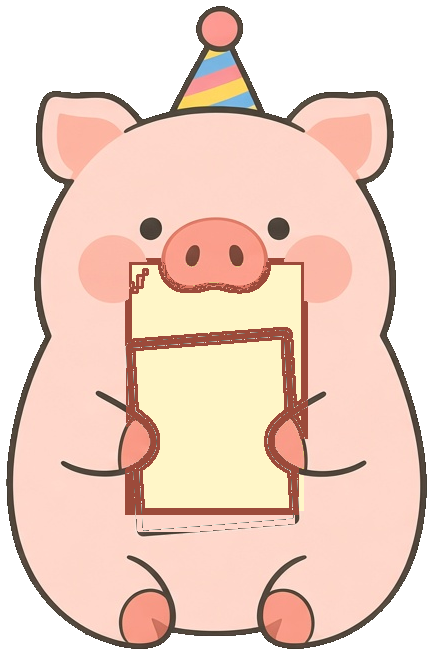
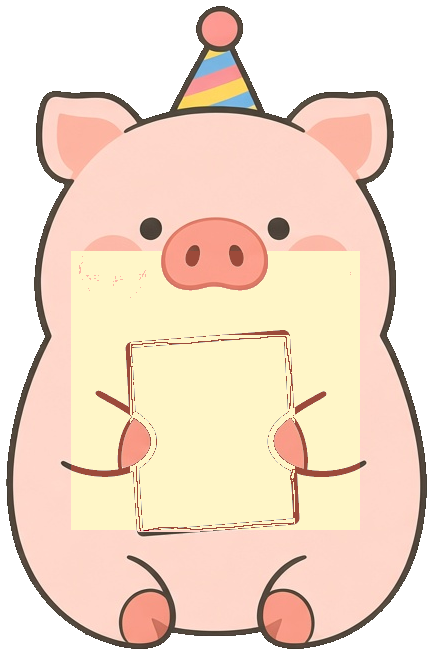
feat: lock user-provided LuLu fullbody; pale yellow card + red-brown border

Changed region(s): [[0.1501, 0.3664, 0.8406, 0.8244]]

diff --git a/index.html b/index.html
@@ -8,12 +8,12 @@
   <link rel="preconnect" href="https://fonts.googleapis.com" />
   <link rel="preconnect" href="https://fonts.gstatic.com" crossorigin />
   <link href="https://fonts.googleapis.com/css2?family=Noto+Sans+TC:wght@400;600;700;800&family=Nunito:wght@600;700;800&display=swap" rel="stylesheet" />
-  <link rel="stylesheet" href="css/styles.css?v=cardcolor1" />
+  <link rel="stylesheet" href="css/styles.css?v=userlock1" />
 </head>
 <body class="landing">
   <nav class="site-nav" aria-label="主選單">
     <a class="nav-brand" href="#top">
-      <img src="assets/lulu-mascot.png?v=cardcolor1" alt="" width="36" height="36" />
+      <img src="assets/lulu-mascot.png?v=userlock1" alt="" width="36" height="36" />
       <span>♡ For Vanessa</span>
     </a>
     <ul class="nav-links">
@@ -96,8 +96,8 @@
     <!-- Pop-up mascot: full-body bounce from bottom, card below face -->
     <div id="lulu-flyer" class="flyer-wrap" role="img" aria-label="LuLu 全身由下彈出，手持生日倒數紙牌">
       <div class="flyer">
-        <img class="flyer-mascot flyer-back" src="assets/lulu-fly-back.png?v=cardcolor1" alt="" width="479" height="593" draggable="false" hidden />
-        <img class="flyer-mascot flyer-front flyer-fullbody" src="assets/lulu-fullbody.png?v=cardcolor1" alt="原創 LuLu 風全身吉祥物（派對帽）" width="433" height="655" draggable="false" />
+        <img class="flyer-mascot flyer-back" src="assets/lulu-fly-back.png?v=userlock1" alt="" width="479" height="593" draggable="false" hidden />
+        <img class="flyer-mascot flyer-front flyer-fullbody" src="assets/lulu-fullbody.png?v=userlock1" alt="原創 LuLu 風全身吉祥物（派對帽）" width="433" height="655" draggable="false" />
         <a class="birthday-sign" id="birthday-sign" href="inside.html" aria-label="離 Vanessa 生日倒數，點擊進入下一頁">
           <div class="sign-label">離 Vanessa 生日</div>
           <div class="sign-countdown" aria-live="polite">
@@ -118,7 +118,7 @@
   </header>
 
   <section class="section" id="countdown">
-    <h2 class="pixel-title"><img class="pixel-title-img" src="assets/title-daoshuzhong.png?v=cardcolor1" alt="倒數中" width="280" height="104" /></h2>
+    <h2 class="pixel-title"><img class="pixel-title-img" src="assets/title-daoshuzhong.png?v=userlock1" alt="倒數中" width="280" height="104" /></h2>
     <p class="lead">11 月 11 日 · UTC+8</p>
     <div class="countdown-board" aria-live="polite">
       <div class="cd-card"><div class="num" data-cd="days">–</div><div class="lbl">天</div></div>
@@ -171,6 +171,6 @@
     <p style="margin-top:6px">原創 mascot · 唔使用官方商品圖作商業用途</p>
   </footer>
 
-  <script src="js/main.js?v=cardcolor1"></script>
+  <script src="js/main.js?v=userlock1"></script>
 </body>
 </html>

diff --git a/inside.html b/inside.html
@@ -8,12 +8,12 @@
   <link rel="preconnect" href="https://fonts.googleapis.com" />
   <link rel="preconnect" href="https://fonts.gstatic.com" crossorigin />
   <link href="https://fonts.googleapis.com/css2?family=Noto+Sans+TC:wght@400;600;700;800&family=Nunito:wght@600;700;800&family=Press+Start+2P&display=swap" rel="stylesheet" />
-  <link rel="stylesheet" href="css/styles.css?v=cardcolor1" />
+  <link rel="stylesheet" href="css/styles.css?v=userlock1" />
 </head>
 <body class="page-inside">
   <nav class="site-nav" aria-label="主選單">
     <a class="nav-brand" href="index.html">
-      <img src="assets/lulu-mascot.png?v=cardcolor1" alt="" width="36" height="36" />
+      <img src="assets/lulu-mascot.png?v=userlock1" alt="" width="36" height="36" />
       <span>♡ For Vanessa</span>
     </a>
     <ul class="nav-links">
@@ -27,7 +27,7 @@
   <main class="inside-shell">
     <!-- Pixel countdown: target 2026-11-11 00:00 Asia/Hong_Kong -->
     <section class="pixel-cd-hero" id="pixel-cd-hero" aria-live="polite">
-      <h2 class="pixel-title" id="pixel-title"><img class="pixel-title-img" src="assets/title-daoshuzhong.png?v=cardcolor1" alt="倒數中" width="280" height="104" /></h2>
+      <h2 class="pixel-title" id="pixel-title"><img class="pixel-title-img" src="assets/title-daoshuzhong.png?v=userlock1" alt="倒數中" width="280" height="104" /></h2>
       <p class="pixel-kicker">離 VANESSA 生日 仲有</p>
       <div class="pixel-countdown" id="pixel-countdown">
         <div class="pixel-cd-unit"><div class="num" data-cd="days">–</div><div class="lbl">DAYS</div></div>
@@ -82,6 +82,6 @@
     <p>Made with <span class="heart">♡</span> for Vanessa · Inspired by LuLu the Piggy · 非官方粉絲向私人網站</p>
   </footer>
 
-  <script src="js/main.js?v=cardcolor1"></script>
+  <script src="js/main.js?v=userlock1"></script>
 </body>
 </html>
